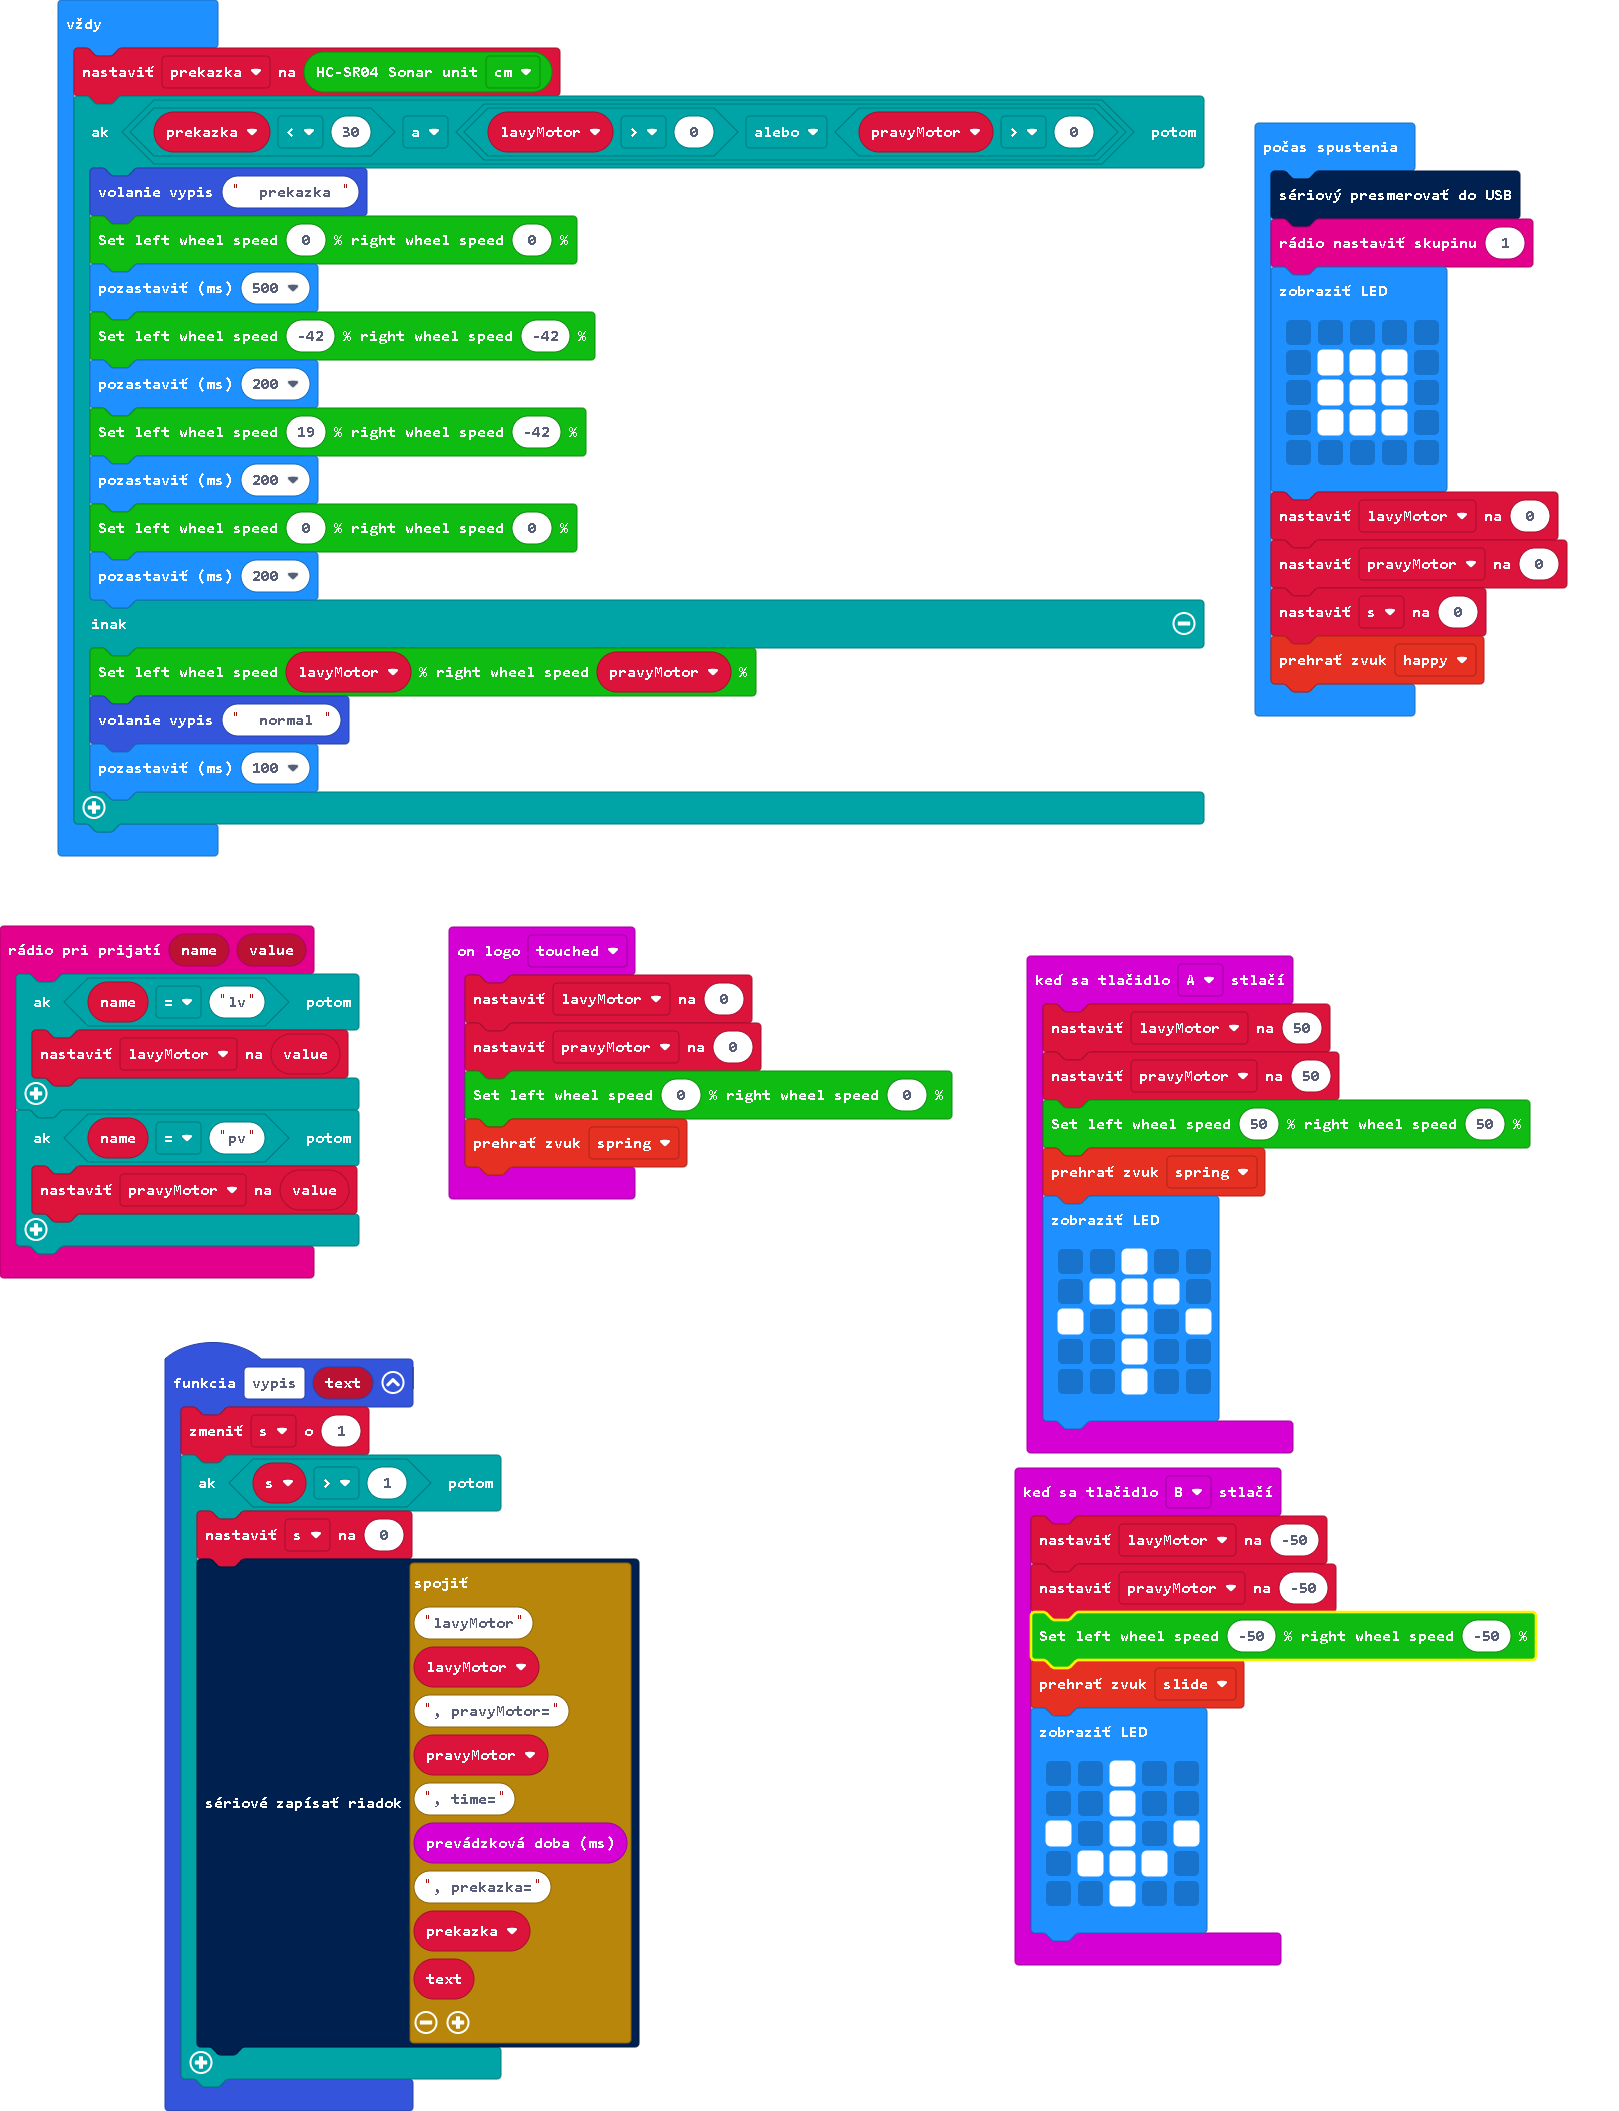
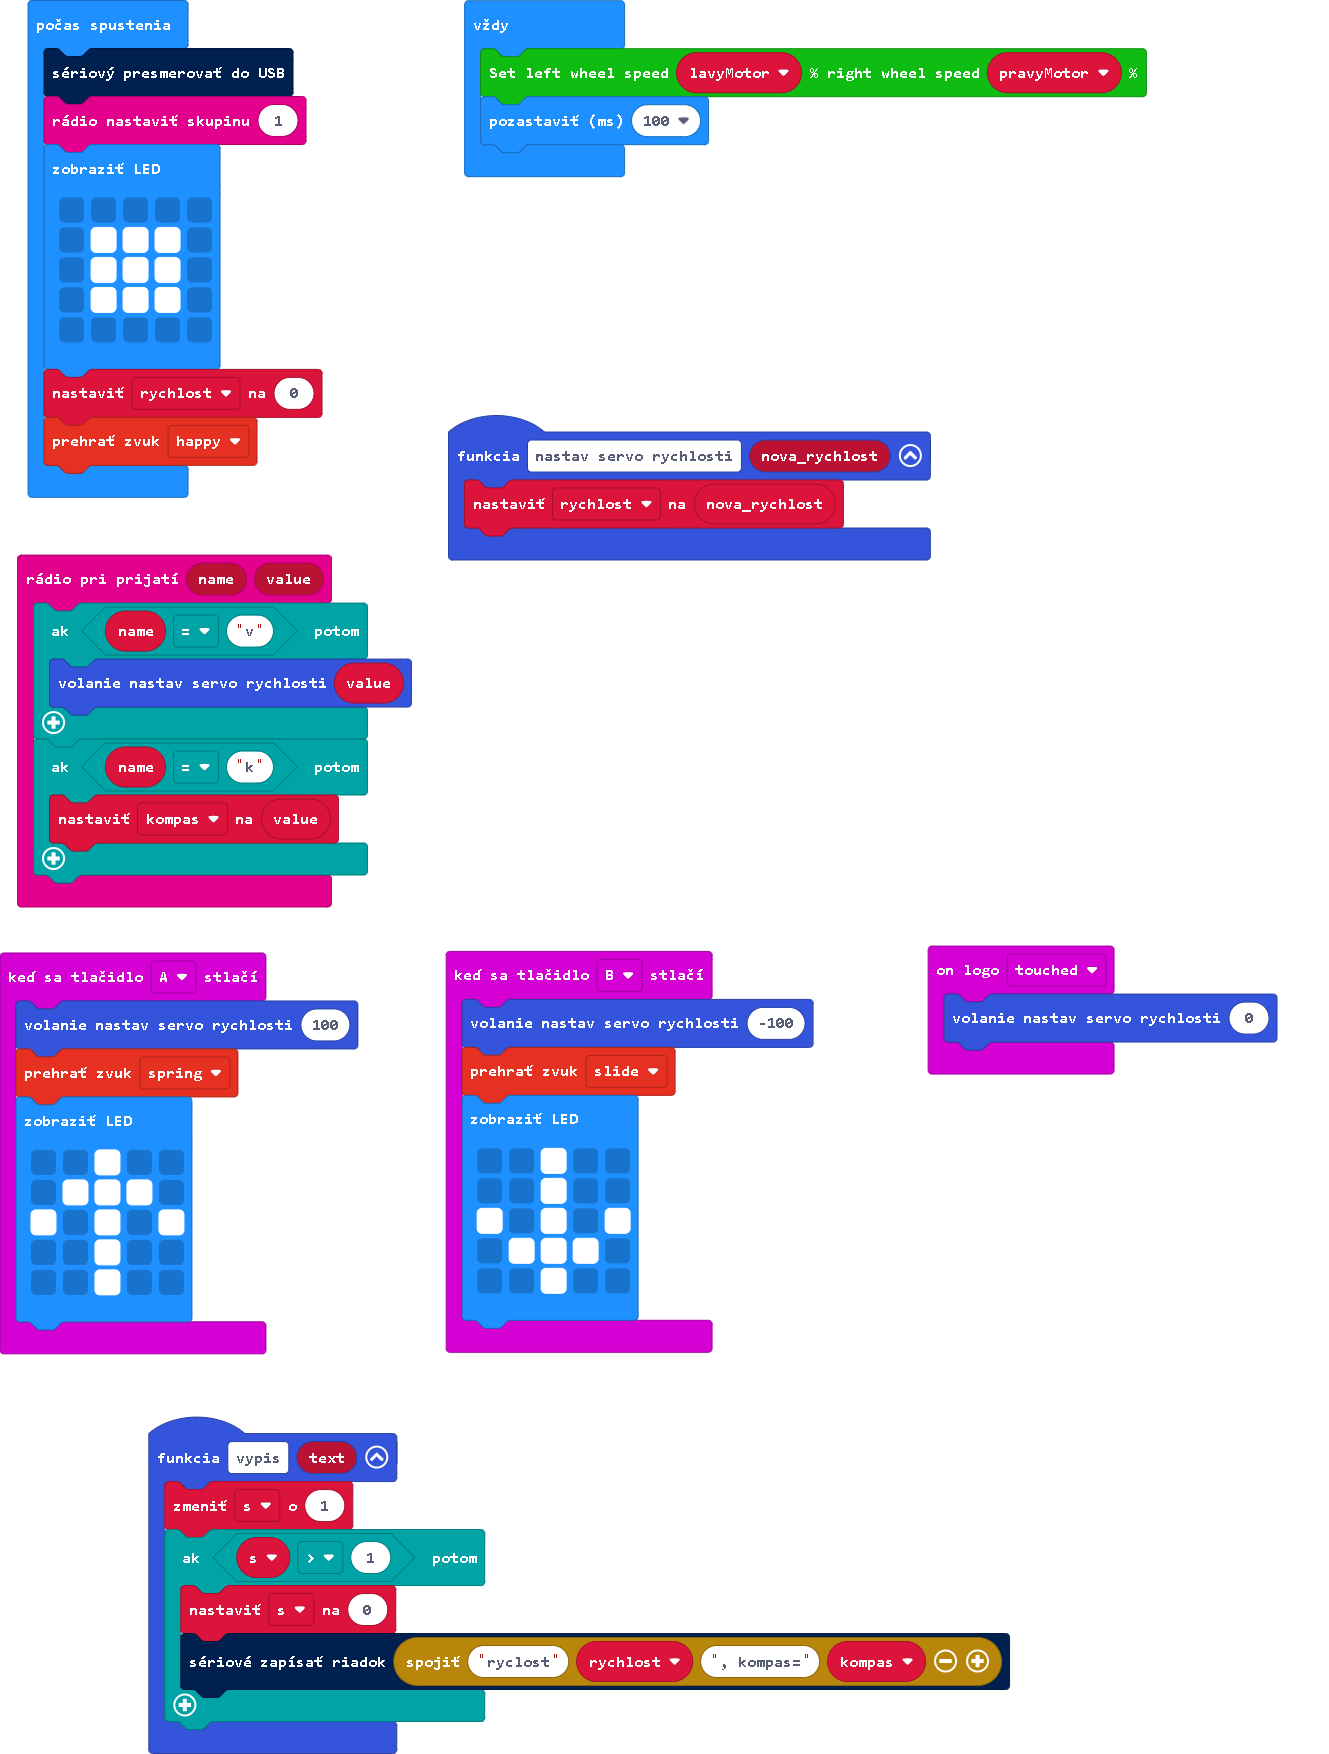
Aktualizovať pxt.json, main.blocks, main.ts

diff --git a/main.ts b/main.ts
@@ -1,7 +1,8 @@
+function nastav_servo_rychlosti (nova_rychlost: number) {
+    rychlost = nova_rychlost
+}
 input.onButtonPressed(Button.A, function () {
-    lavyMotor = 50
-    pravyMotor = 50
-    cuteBot.motors(50, 50)
+    nastav_servo_rychlosti(100)
     soundExpression.spring.play()
     basic.showLeds(`
         . . # . .
@@ -15,13 +16,11 @@ function vypis (text: string) {
     s += 1
     if (s > 1) {
         s = 0
-        serial.writeLine("lavyMotor" + lavyMotor + ", pravyMotor=" + pravyMotor + ", time=" + input.runningTime() + ", prekazka=" + prekazka + text)
+        serial.writeLine("ryclost" + rychlost + ", kompas=" + kompas)
     }
 }
 input.onButtonPressed(Button.B, function () {
-    lavyMotor = -50
-    pravyMotor = -50
-    cuteBot.motors(-50, -50)
+    nastav_servo_rychlosti(-100)
     soundExpression.slide.play()
     basic.showLeds(`
         . . # . .
@@ -32,23 +31,19 @@ input.onButtonPressed(Button.B, function () {
         `)
 })
 radio.onReceivedValue(function (name, value) {
-    if (name == "lv") {
-        lavyMotor = value
+    if (name == "v") {
+        nastav_servo_rychlosti(value)
     }
-    if (name == "pv") {
-        pravyMotor = value
+    if (name == "k") {
+        kompas = value
     }
 })
 input.onLogoEvent(TouchButtonEvent.Touched, function () {
-    lavyMotor = 0
-    pravyMotor = 0
-    cuteBot.motors(0, 0)
-    soundExpression.spring.play()
+    nastav_servo_rychlosti(0)
 })
-let prekazka = 0
+let kompas = 0
 let s = 0
-let pravyMotor = 0
-let lavyMotor = 0
+let rychlost = 0
 serial.redirectToUSB()
 radio.setGroup(1)
 basic.showLeds(`
@@ -58,25 +53,11 @@ basic.showLeds(`
     . # # # .
     . . . . .
     `)
-lavyMotor = 0
-pravyMotor = 0
-s = 0
+rychlost = 0
 soundExpression.happy.play()
 basic.forever(function () {
-    prekazka = cuteBot.ultrasonic(cuteBot.SonarUnit.Centimeters)
-    if (prekazka < 30 && (lavyMotor > 0 || pravyMotor > 0)) {
-        vypis("  prekazka ")
-        cuteBot.motors(0, 0)
-        basic.pause(500)
-        cuteBot.motors(-42, -42)
-        basic.pause(200)
-        cuteBot.motors(19, -42)
-        basic.pause(200)
-        cuteBot.motors(0, 0)
-        basic.pause(200)
-    } else {
-        cuteBot.motors(lavyMotor, pravyMotor)
-        vypis("  normal ")
-        basic.pause(100)
-    }
+    let pravyMotor = 0
+    let lavyMotor = 0
+    cuteBot.motors(lavyMotor, pravyMotor)
+    basic.pause(100)
 })
